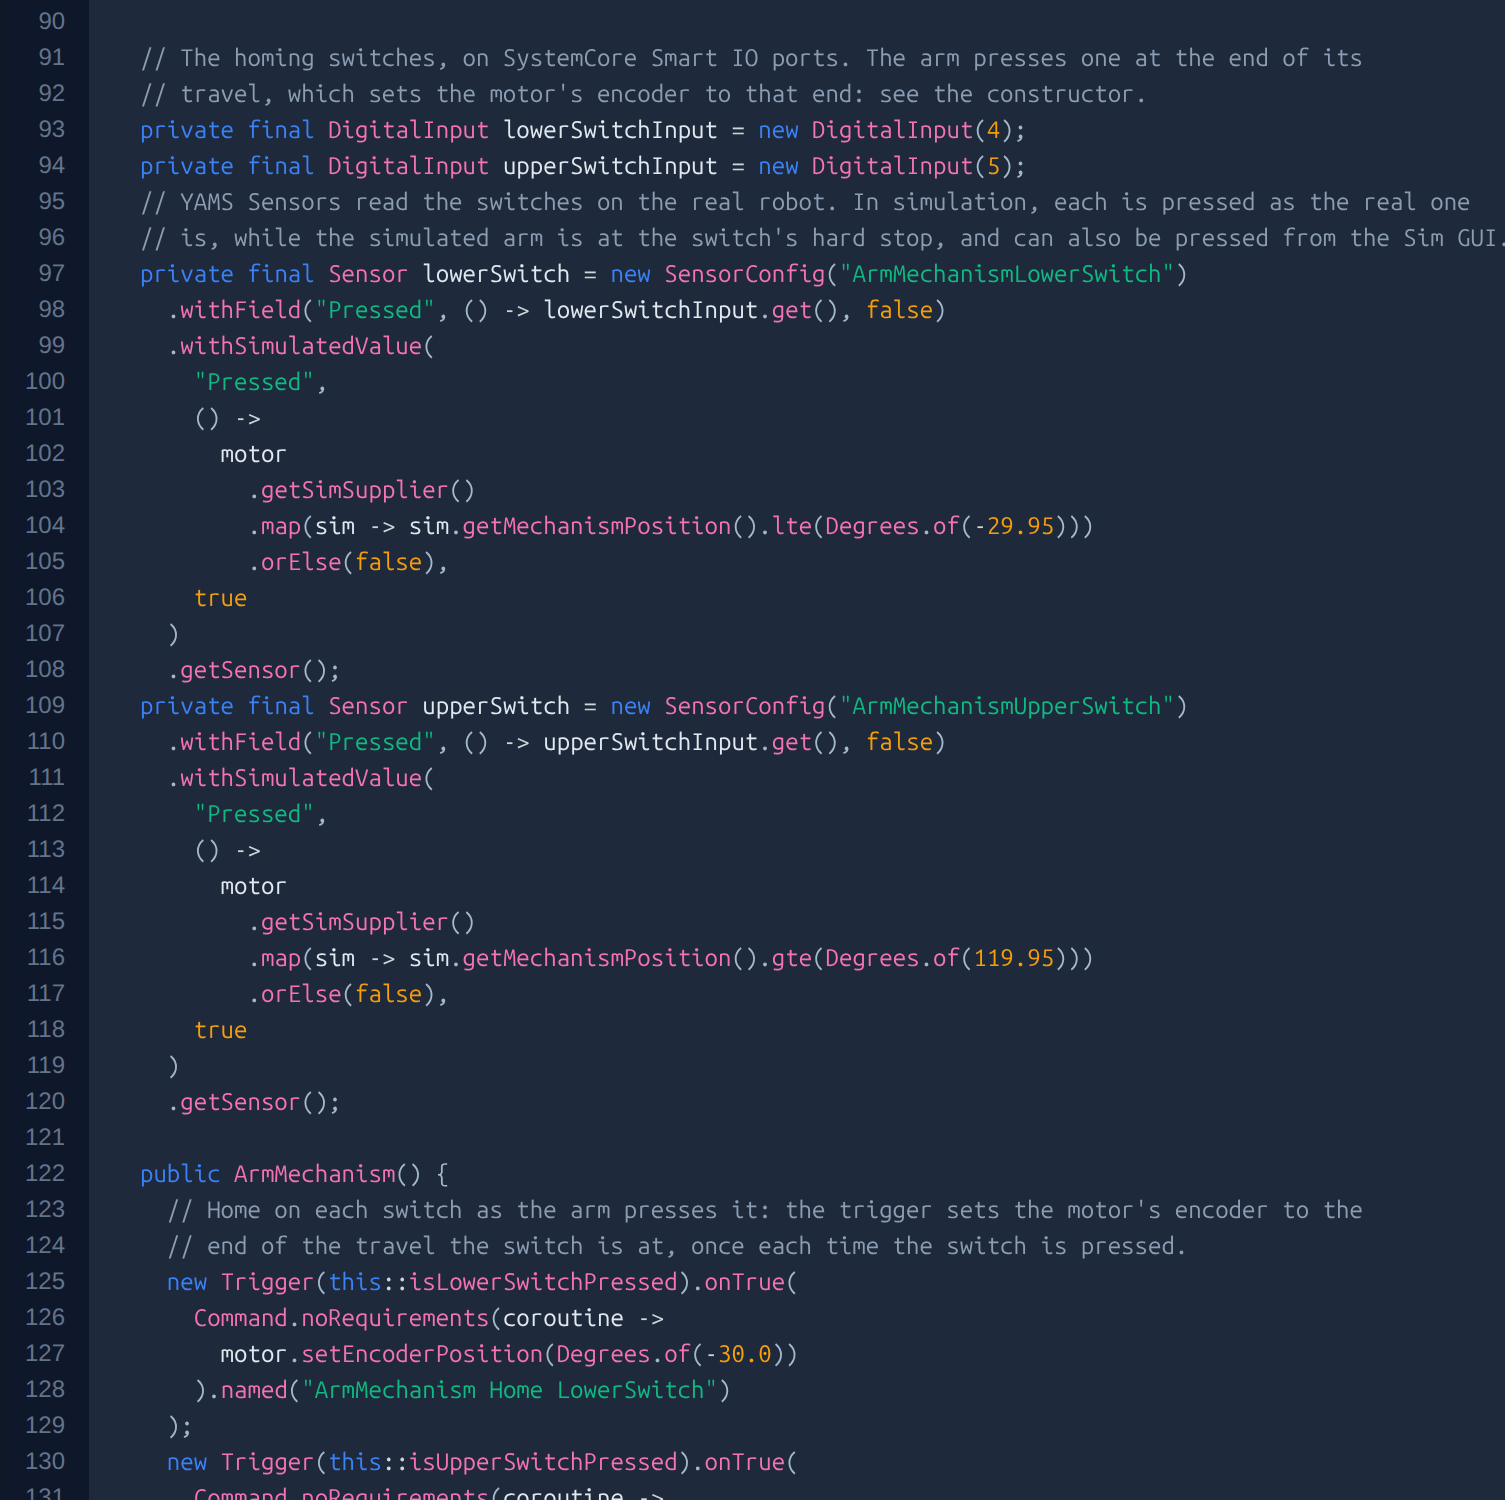
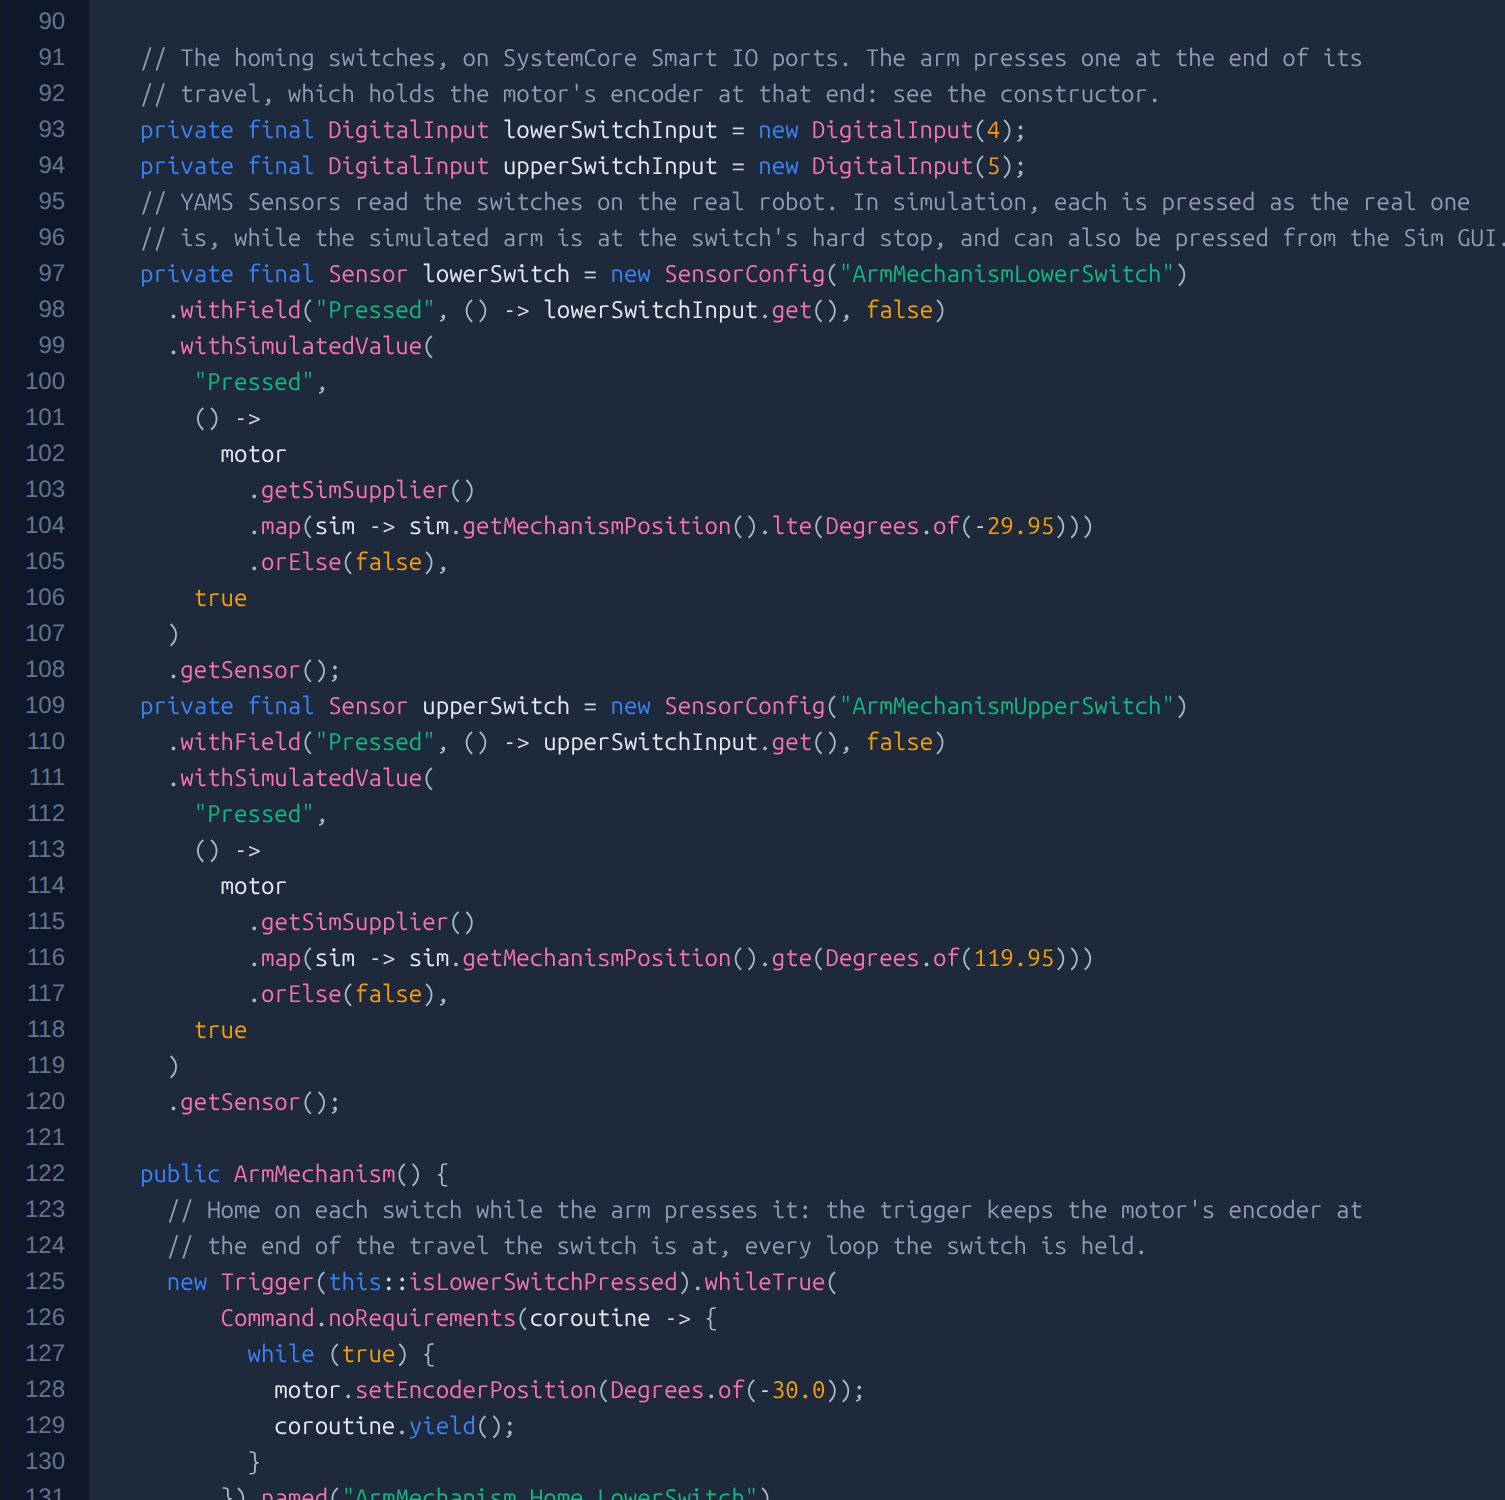
Show YAMG's homing triggers holding the encoder while a switch is pressed, in the YAMG 2027 post

diff --git a/src/content/blog/yamg-2027.md b/src/content/blog/yamg-2027.md
@@ -182,7 +182,7 @@ Switches at a hard stop take a hit every time the mechanism gets there, so turni
 
 ![YAMG warning that homing switches can bend or move, and should be checked regularly](../../assets/blog/yamg-2027/12-homing-warning.png)
 
-In the code, a trigger for each switch sets the encoder once each time it's pressed, so a mechanism resting on its switch doesn't send the motor controller a new position every loop. The simulation draws the switches at the hard stops and lights one up while the mechanism presses it:
+In the code, a trigger for each switch keeps the encoder at its hard stop for as long as the switch is pressed. The simulation draws the switches at the hard stops and lights one up while the mechanism presses it:
 
 ![YAMG simulating an arm resting on its lower hard stop, with its lower homing switch pressed](../../assets/blog/yamg-2027/13-homing-sim.png)
 
